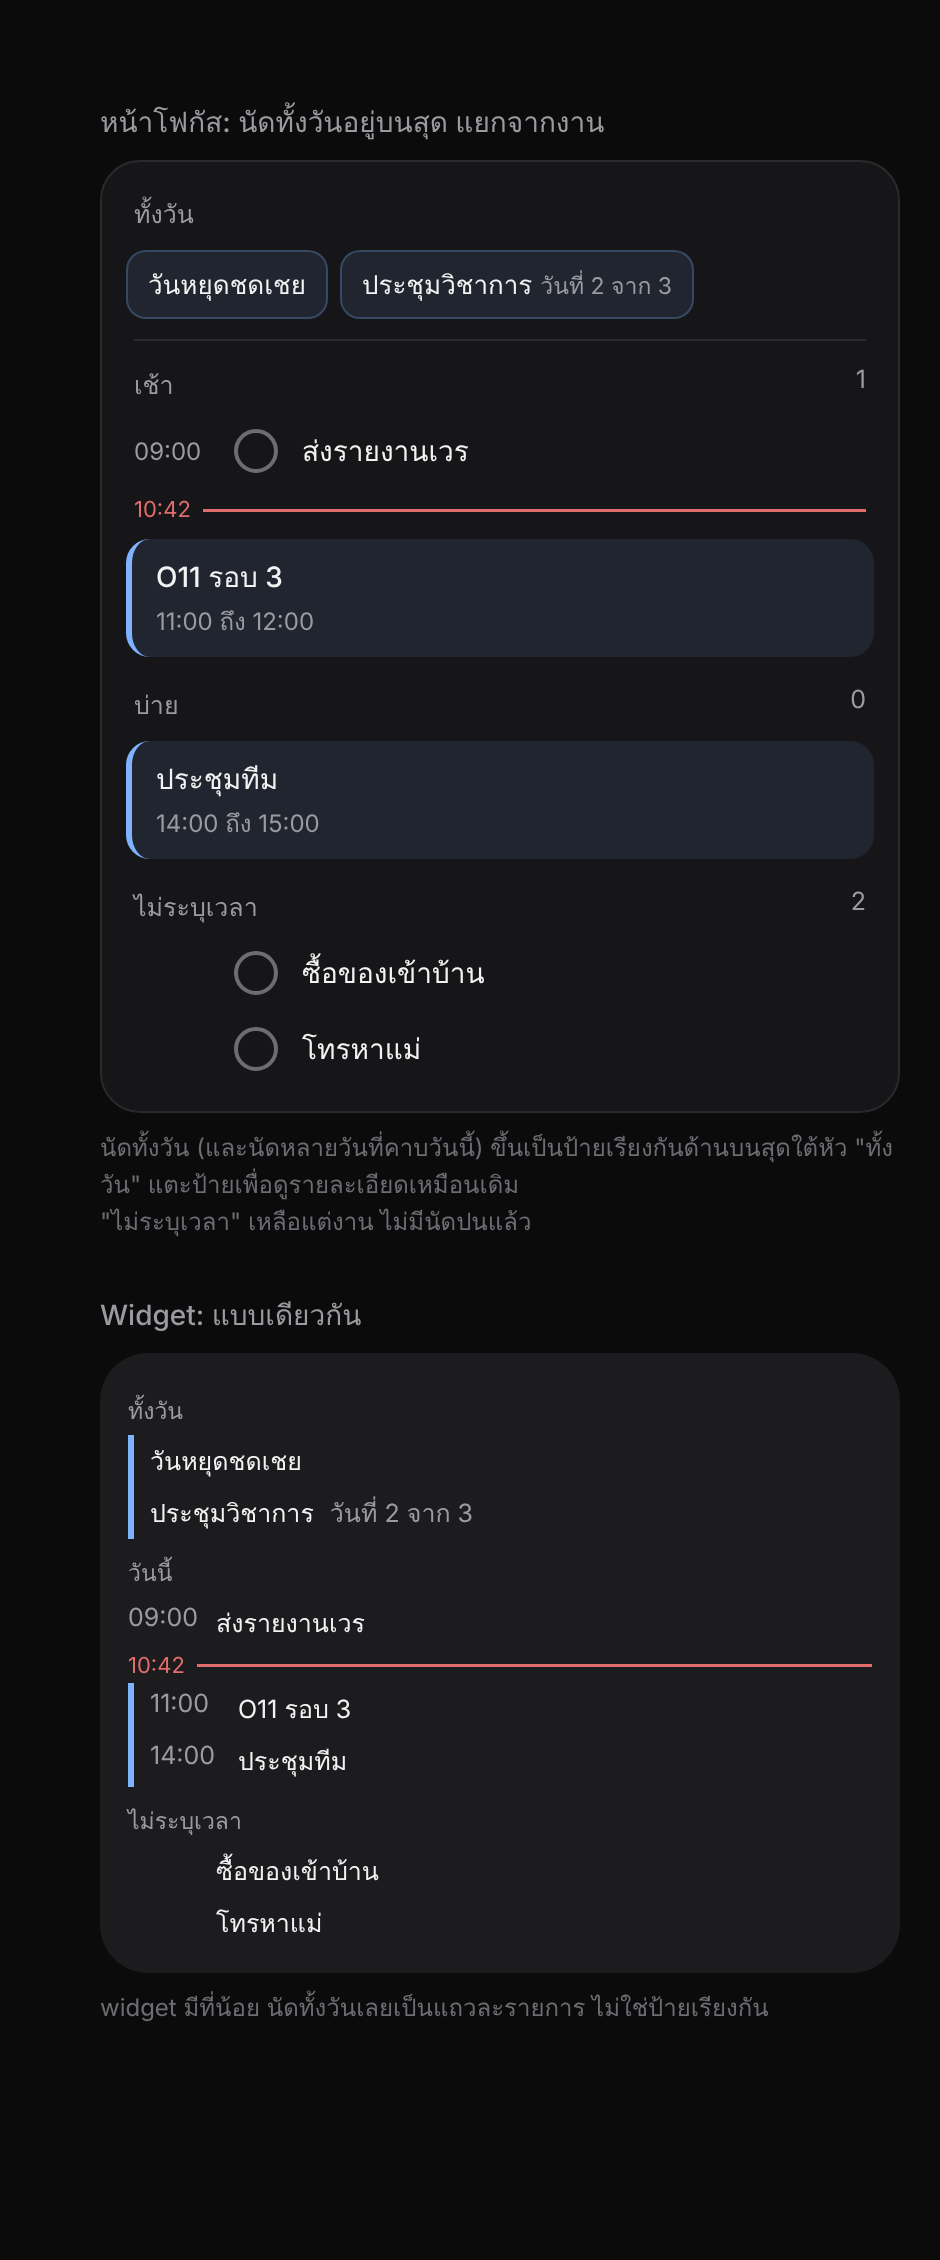
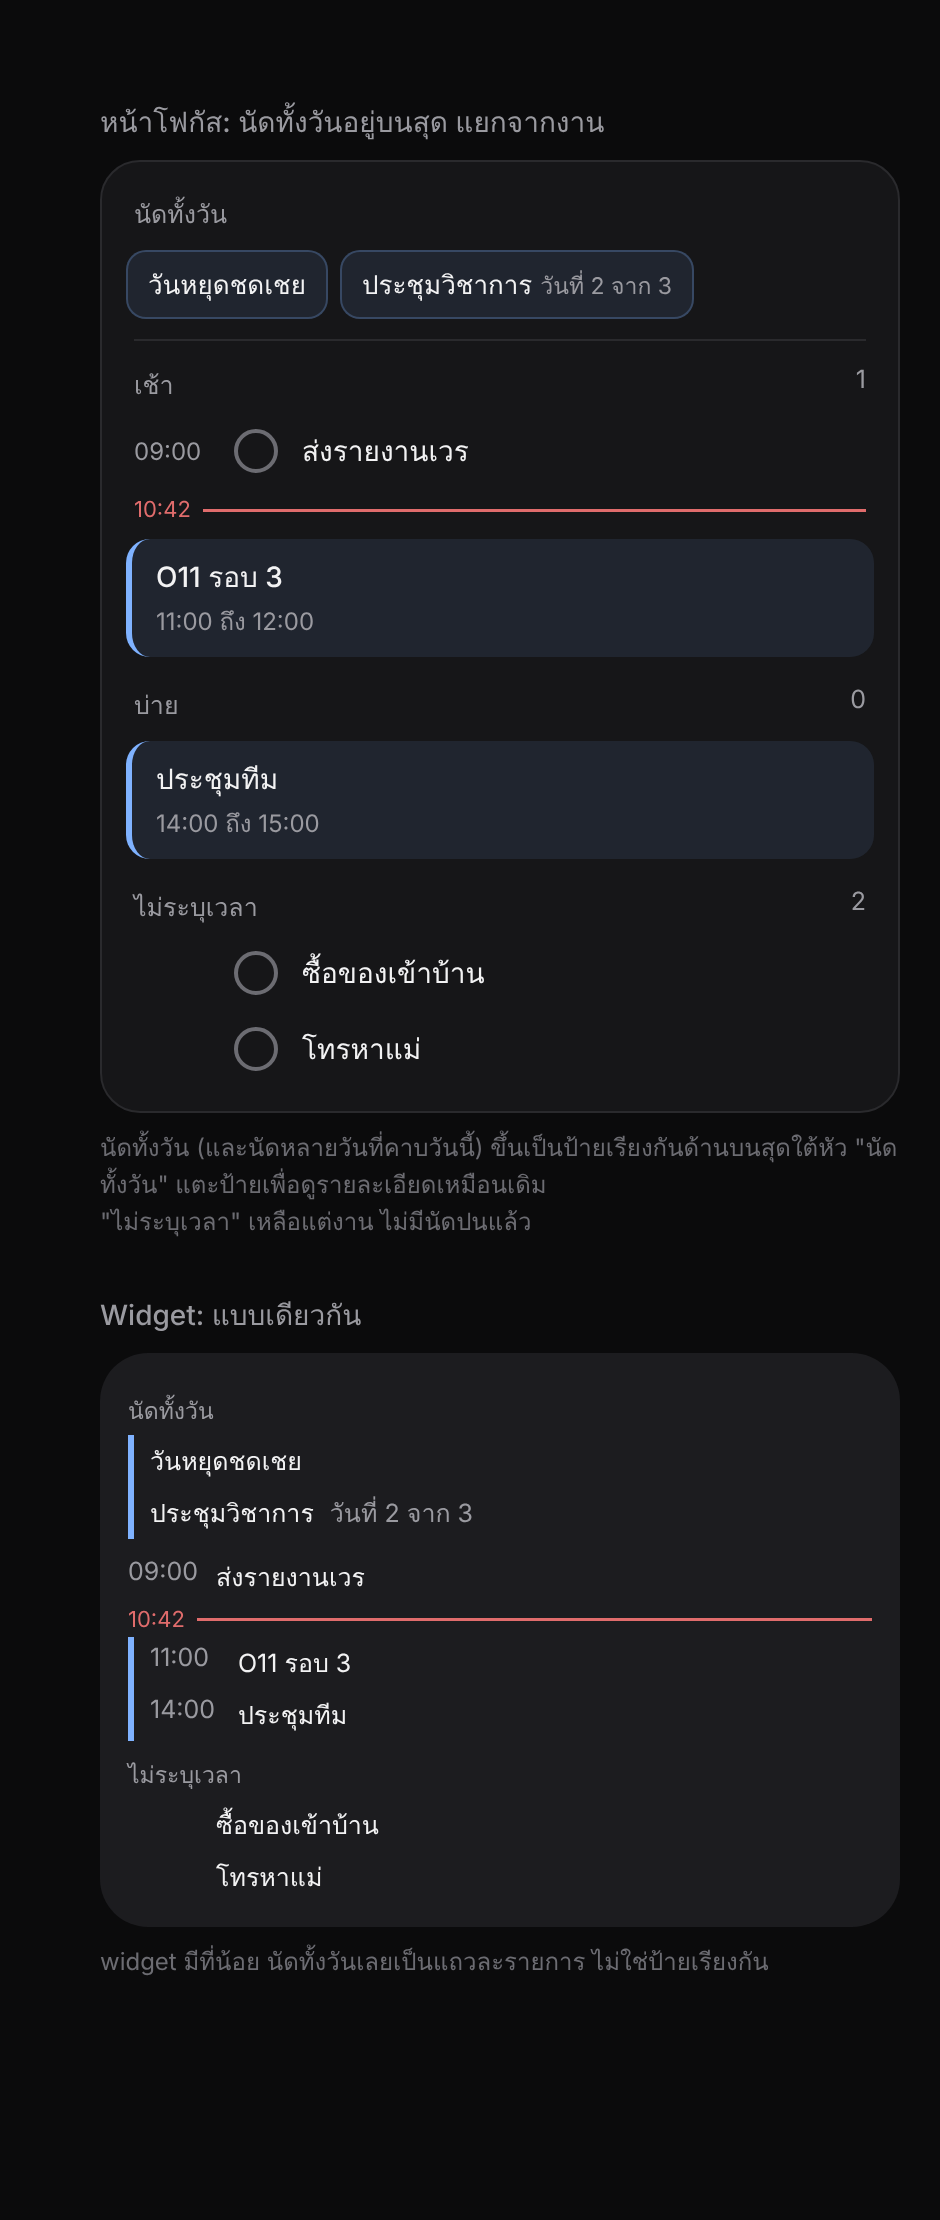
Mockup: the heading reads Nadtangwan (all-day events), no Today heading in the widget
Claude-Session: https://claude.ai/code/session_013R3fFvcv67nxY8agVcYRQ6

diff --git a/docs/mockup-allday-top.html b/docs/mockup-allday-top.html
@@ -28,7 +28,7 @@ h2{font-size:14px;color:var(--muted);font-weight:500;margin:26px 0 8px}
 
 <h2>หน้าโฟกัส: นัดทั้งวันอยู่บนสุด แยกจากงาน</h2>
 <div class="card">
- <div class="head"><span>ทั้งวัน</span></div>
+ <div class="head"><span>นัดทั้งวัน</span></div>
  <div class="ad">
   <div class="chip">วันหยุดชดเชย</div>
   <div class="chip">ประชุมวิชาการ<small>วันที่ 2 จาก 3</small></div>
@@ -44,15 +44,14 @@ h2{font-size:14px;color:var(--muted);font-weight:500;margin:26px 0 8px}
  <div class="task"><span class="time"></span><div class="box"></div>ซื้อของเข้าบ้าน</div>
  <div class="task"><span class="time"></span><div class="box"></div>โทรหาแม่</div>
 </div>
-<div class="note">นัดทั้งวัน (และนัดหลายวันที่คาบวันนี้) ขึ้นเป็นป้ายเรียงกันด้านบนสุดใต้หัว "ทั้งวัน" แตะป้ายเพื่อดูรายละเอียดเหมือนเดิม<br>"ไม่ระบุเวลา" เหลือแต่งาน ไม่มีนัดปนแล้ว</div>
+<div class="note">นัดทั้งวัน (และนัดหลายวันที่คาบวันนี้) ขึ้นเป็นป้ายเรียงกันด้านบนสุดใต้หัว "นัดทั้งวัน" แตะป้ายเพื่อดูรายละเอียดเหมือนเดิม<br>"ไม่ระบุเวลา" เหลือแต่งาน ไม่มีนัดปนแล้ว</div>
 
 <h2>Widget: แบบเดียวกัน</h2>
 <div class="w">
- <div class="h">ทั้งวัน</div>
+ <div class="h">นัดทั้งวัน</div>
  <div class="r e">วันหยุดชดเชย</div>
  <div class="r e">ประชุมวิชาการ <span style="color:var(--muted)">วันที่ 2 จาก 3</span></div>
- <div class="h">วันนี้</div>
- <div class="r"><span class="t">09:00</span>ส่งรายงานเวร</div>
+ <div class="r" style="margin-top:6px"><span class="t">09:00</span>ส่งรายงานเวร</div>
  <div class="now" style="padding:2px 0"><span>10:42</span><i></i></div>
  <div class="r e"><span class="t">11:00</span>O11 รอบ 3</div>
  <div class="r e"><span class="t">14:00</span>ประชุมทีม</div>
